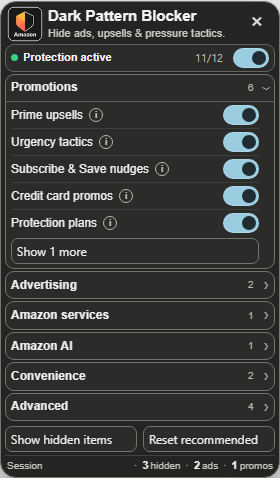
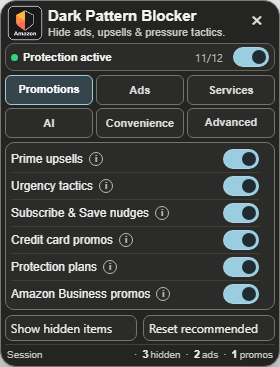
Release ADPB v1.2.0 with category tabs

diff --git a/amazon-dark-pattern-blocker.user.js b/amazon-dark-pattern-blocker.user.js
@@ -1,7 +1,7 @@
 // ==UserScript==
 // @name           Amazon Dark Pattern Blocker
 // @namespace      https://github.com/ExtraPotions/velvet-crane-orbit
-// @version        1.1.2
+// @version        1.2.0
 // @description    Remove Amazon dark patterns + floating settings; major amazon.* storefronts
 // @author         expDARE
 // @license        CC-BY-NC-4.0
@@ -30,7 +30,7 @@
 // @match          https://amazon.com.mx/*
 // @match          https://www.amazon.nl/*
 // @match          https://amazon.nl/*
-// @icon           https://raw.githubusercontent.com/ExtraPotions/velvet-crane-orbit/v1.1.2/icon-128.png
+// @icon           https://raw.githubusercontent.com/ExtraPotions/velvet-crane-orbit/v1.2.0/icon-128.png
 // @run-at         document-start
 // @downloadURL    https://github.com/ExtraPotions/velvet-crane-orbit/releases/latest/download/amazon-dark-pattern-blocker.user.js
 // @updateURL      https://github.com/ExtraPotions/velvet-crane-orbit/releases/latest/download/amazon-dark-pattern-blocker.user.js
@@ -53,7 +53,7 @@
 (function () {
   "use strict";
 
-  const VERSION = "1.1.2";
+  const VERSION = "1.2.0";
   // ============================================================
   // CONFIGURATION
   // ============================================================
@@ -2815,6 +2815,16 @@
 
     menuVisualCss() {
       return `
+        #${this.PANEL_ID} .adpb-tabs{display:grid!important;grid-template-columns:repeat(3,minmax(0,1fr))!important;gap:3px!important;margin:4px 0!important;flex-shrink:0!important}
+        #${this.PANEL_ID} .adpb-tab{min-width:0!important;min-height:30px!important;padding:3px 2px!important;background:#2b2b29!important;border:1px solid #74746f!important;border-radius:6px!important;color:#ddd!important;font:700 11px/1.2 Arial,sans-serif!important;cursor:pointer!important}
+        #${this.PANEL_ID} .adpb-tab[aria-selected=true]{background:#35454b!important;border-color:#9acde0!important;color:#fff!important}
+        #${this.PANEL_ID}>.adpb-section>.adpb-section-toggle{display:none!important}
+        #${this.PANEL_ID}>.adpb-section:not(.is-open){display:none!important}
+        #${this.PANEL_ID}>.adpb-section.is-open{margin-top:0!important;padding-top:3px!important}
+        #${this.PANEL_ID}.adpb-sheet .adpb-tab{min-height:40px!important}
+        #${this.PANEL_ID}.adpb-short .adpb-tabs{display:none!important}
+        @media(pointer:coarse){#${this.PANEL_ID} .adpb-tab{min-height:44px!important}}
+
         #${this.PANEL_ID} .adpb-setting-copy{display:flex!important;align-items:center!important;gap:4px!important}
         #${this.PANEL_ID} .adpb-setting-name{flex:0 1 auto!important;min-width:0!important}
         #${this.PANEL_ID} .adpb-setting-description[hidden]{display:none!important}
@@ -2941,7 +2951,7 @@
       const anchor = button.getBoundingClientRect();
       const rect = tip.getBoundingClientRect();
       tip.style.left = Math.max(x + 8, Math.min(anchor.right - rect.width, x + width - rect.width - 8)) + "px";
-      const top = anchor.bottom + rect.height + 6 <= y + height - 8 ? anchor.bottom + 6 : anchor.top - rect.height - 6;
+      const top = anchor.top - rect.height - 6 >= y + 8 ? anchor.top - rect.height - 6 : anchor.bottom + 6;
       tip.style.top = Math.max(y + 8, Math.min(top, y + height - rect.height - 8)) + "px";
     },
 
@@ -3401,7 +3411,7 @@
           result.label.dataset.setting =
             key;
 
-          if (index >= 5) {
+          if (categorySettings.length > 6 && index >= 5) {
             result.label.classList.add(
               "is-extra",
             );
@@ -3412,7 +3422,7 @@
           );
         });
 
-        if (categorySettings.length > 5) {
+        if (categorySettings.length > 6) {
           const showMore =
             document.createElement("button");
 
@@ -3840,6 +3850,49 @@
 
       panel.appendChild(foot);
 
+      const tabs = document.createElement("div");
+      tabs.className = "adpb-tabs";
+      tabs.setAttribute("role", "tablist");
+      tabs.setAttribute("aria-label", "Protection categories");
+      const sections = [...panel.querySelectorAll(":scope > .adpb-section")];
+      const tabNames = {promotions:"Promotions",advertising:"Ads",services:"Services",ai:"AI",convenience:"Convenience",advanced:"Advanced"};
+      const tabButtons = [];
+      const syncTabs = () => sections.forEach((section, index) => {
+        const selected = section.classList.contains("is-open");
+        tabButtons[index].setAttribute("aria-selected", String(selected));
+        tabButtons[index].tabIndex = selected ? 0 : -1;
+      });
+      sections.forEach((section, index) => {
+        const tab = document.createElement("button");
+        tab.type = "button";
+        tab.className = "adpb-tab";
+        tab.textContent = tabNames[section.dataset.category] || section.dataset.category;
+        tab.id = "adpb-tab-" + index;
+        section.id = "adpb-tabpanel-" + index;
+        section.setAttribute("role", "tabpanel");
+        section.setAttribute("aria-labelledby", tab.id);
+        tab.setAttribute("role", "tab");
+        tab.setAttribute("aria-controls", section.id);
+        const oldHeading = section.querySelector(".adpb-section-toggle");
+        oldHeading.addEventListener("click", syncTabs);
+        tab.addEventListener("click", () => {
+          this.hideInfo();
+          if (!section.classList.contains("is-open")) oldHeading.click();
+          syncTabs();
+        });
+        tab.addEventListener("keydown", event => {
+          const step = {ArrowRight:1,ArrowLeft:-1,ArrowDown:3,ArrowUp:-3}[event.key];
+          if (step === undefined && event.key !== "Home" && event.key !== "End") return;
+          event.preventDefault();
+          const next = event.key === "Home" ? 0 : event.key === "End" ? sections.length-1 : (index+step+sections.length)%sections.length;
+          tabButtons[next].click();
+          tabButtons[next].focus();
+        });
+        tabButtons.push(tab);
+        tabs.appendChild(tab);
+      });
+      panel.insertBefore(tabs, sections[0]);
+      syncTabs();
       return panel;
     },
 

diff --git a/README.md b/README.md
@@ -4,9 +4,9 @@
 
 Remove common Amazon dark patterns while keeping control over the protections you want.
 
-[![Amazon ADPB v1.1.2](badge.svg)](https://github.com/ExtraPotions/velvet-crane-orbit/releases/tag/v1.1.2)
+[![Amazon ADPB v1.2.0](badge.svg)](https://github.com/ExtraPotions/velvet-crane-orbit/releases/tag/v1.2.0)
 
-**Version 1.1.2** · By [expDARE](https://github.com/ExtraPotions) · [What's new](CHANGELOG.md)
+**Version 1.2.0** · By [expDARE](https://github.com/ExtraPotions) · [What's new](CHANGELOG.md)
 
 ## Features
 
@@ -20,14 +20,15 @@ Remove common Amazon dark patterns while keeping control over the protections yo
 - Display options and per-session blocked-item counts live under Advanced as nested menus.
 - Optional quiet update checks use release metadata only and never download executable code.
 - Clear stats sits with session stats; Reset recommended stays at the panel foot.
-- Compact 280px charcoal menu with denser spacing, accessible toggle buttons and descriptions.
-- Compact icon header, rounded category rows and sentence-case labels keep the menu easy to scan.
+- Compact 280px charcoal tabbed menu with denser spacing, accessible toggle buttons and descriptions.
+- Compact icon header, a two-row category tab bar and sentence-case labels keep the menu easy to scan.
 - Info buttons show descriptions on hover, keyboard focus or tap. Tap again or outside to dismiss; Escape dismisses help before closing the menu.
 - Protection status shares one row with its master switch; Advanced submenus use light separators and minimal inset spacing.
 - A short header explains the script; the footer shows live session counts for hidden items, ads and promotions.
 - Show hidden items temporarily restores ADPB-hidden elements dimmed; hover or keyboard focus restores full contrast. Hide revealed items reapplies hiding without changing saved protections. Inspection ends on reload and does not undo clicks or other non-visual actions.
 - Adaptive menu placement chooses the roomier side of the launcher and shifts upward as content expands.
-- The title, close button and category navigation remain visible; overflow scrolls inside the expanded section.
+- The title, close button and category tabs remain visible; overflow scrolls inside the selected panel. Use arrow keys to navigate tabs.
+- Categories with six or fewer settings show every item directly; larger categories offer Show more.
 - Small screens use a centered bottom sheet up to 280px wide. Very short viewports use a category selector to leave room for settings.
 - High-contrast switches and automatic system reduced-motion support.
 - Remembered launcher placement, including a preferred position beside a page control.

diff --git a/CHANGELOG.md b/CHANGELOG.md
@@ -1,5 +1,13 @@
 # Changelog
 
+## 1.2.0
+
+- Replace stacked category headings with a compact two-row tab bar.
+- Keep one settings panel open, with selected-tab styling and arrow-key navigation.
+- Show all settings directly in categories of six or fewer items; reserve Show more for seven or more.
+- Preserve 280px desktop/mobile menus, touch targets, info buttons, inspection mode and session counters.
+- Refresh menu screenshots and tabbed-layout browser coverage.
+
 ## 1.1.2
 
 - Replace inline setting descriptions with info buttons supporting hover, keyboard focus and mobile tap.
